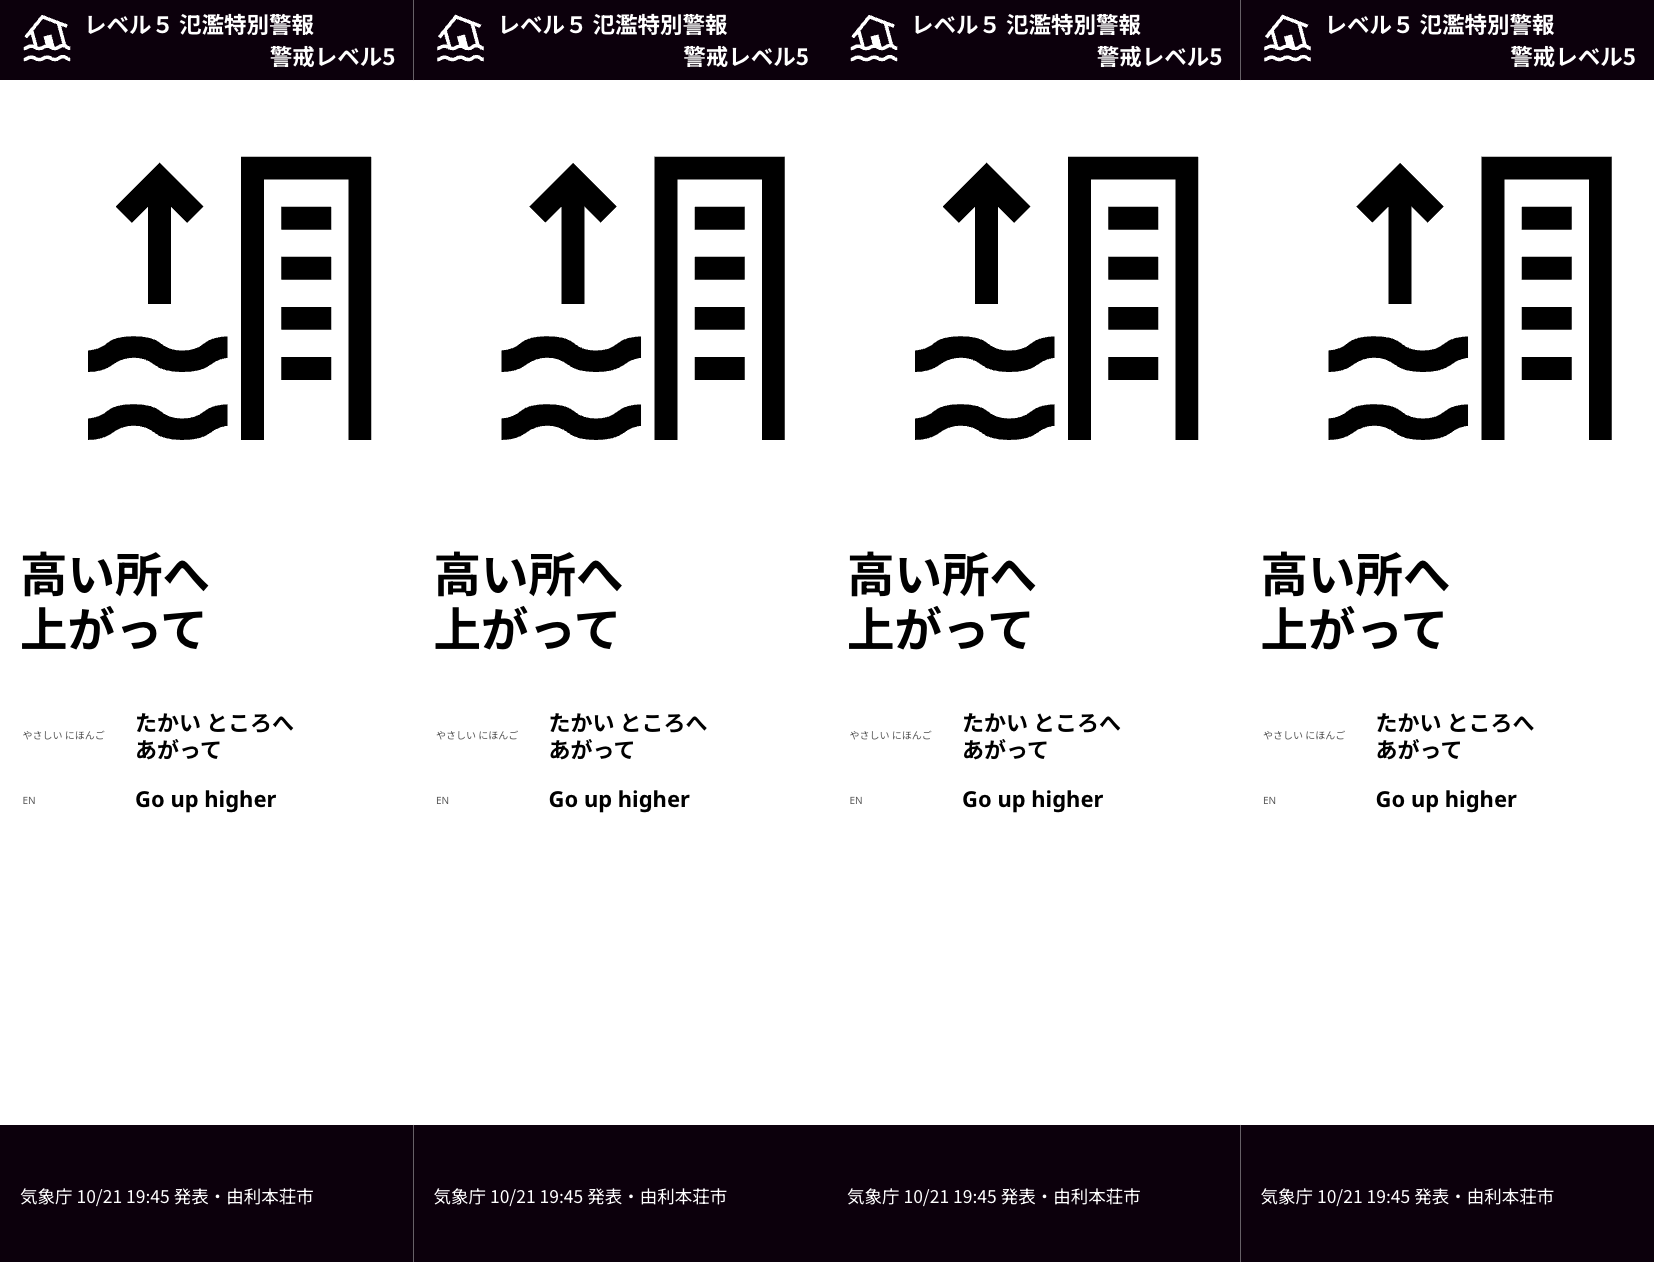
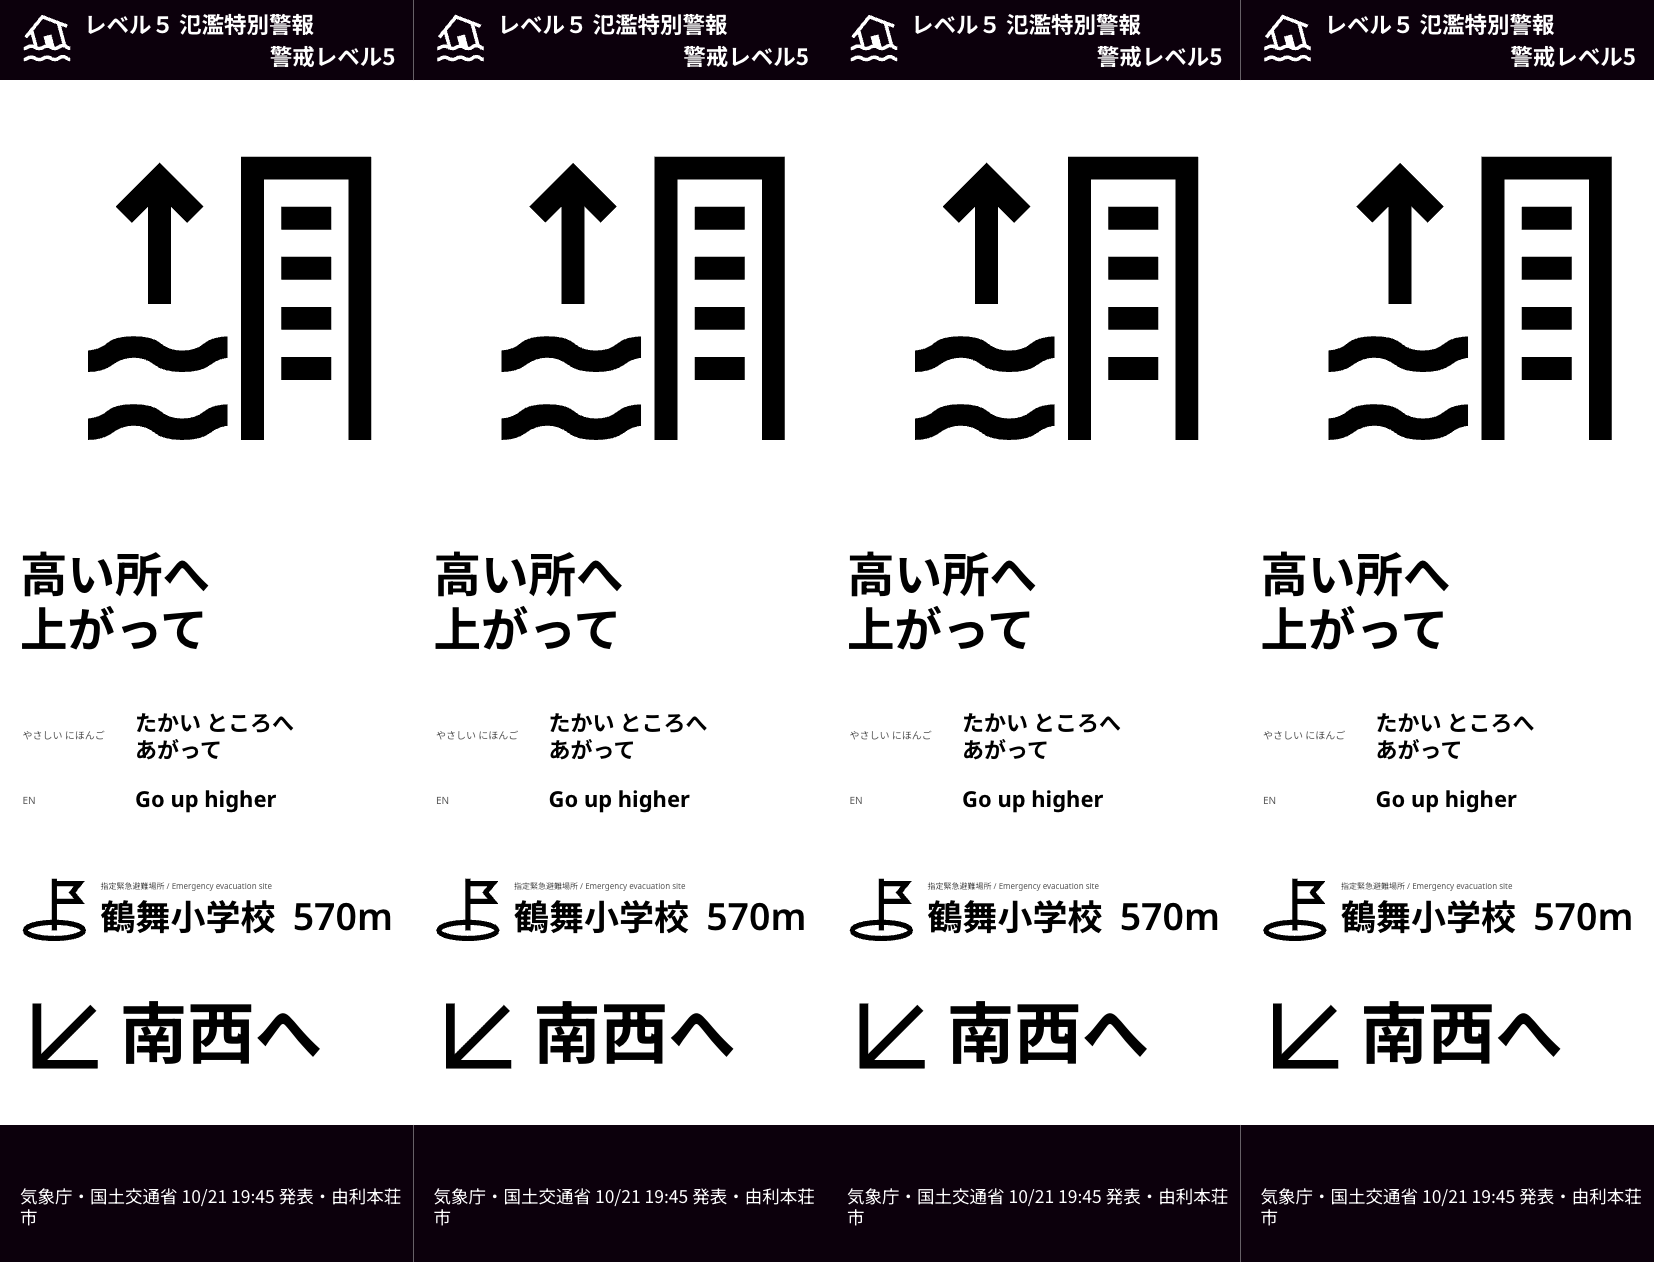
docs(screens): Lv5 screens with the shelter and direction after the bulletin regeneration
From main 538f4b5 (agents regenerated the three Lv5 bulletins with a shelter and direction; L-5
changed the 1:1 and secure-now slots), pnpm -F app screens at t = 14480 ms: lv5 16x9, 32x9, 9x16,
1x1 and pillar now show 鶴舞小学校 570 m and 南西へ, and their source line names 気象庁・国土交通省.
lv4-16x9 changed by a few pixels; the other 21 images came out byte-identical.

diff --git a/docs/screens.md b/docs/screens.md
@@ -17,7 +17,7 @@ Regenerate with `pnpm -F app screens` (production build, loopback admin preview)
 
 ![レベル５氾濫特別警報 (16x9)](screens/lv5-16x9.png)
 
-2026-10-21 19:45 JST · レベル５氾濫特別警報 · 警戒レベル5 — source line: 気象庁 10/21 19:45 発表・由利本荘市
+2026-10-21 19:45 JST · レベル５氾濫特別警報 · 警戒レベル5 — source line: 気象庁・国土交通省 10/21 19:45 発表・由利本荘市
 
 ![レベル２氾濫注意報解除 (16x9)](screens/clear-16x9.png)
 
@@ -35,7 +35,7 @@ Regenerate with `pnpm -F app screens` (production build, loopback admin preview)
 
 ![レベル５氾濫特別警報 (9x16)](screens/lv5-9x16.png)
 
-2026-10-21 19:45 JST · レベル５氾濫特別警報 · 警戒レベル5 — source line: 気象庁 10/21 19:45 発表・由利本荘市
+2026-10-21 19:45 JST · レベル５氾濫特別警報 · 警戒レベル5 — source line: 気象庁・国土交通省 10/21 19:45 発表・由利本荘市
 
 ![レベル２氾濫注意報解除 (9x16)](screens/clear-9x16.png)
 
@@ -53,7 +53,7 @@ Regenerate with `pnpm -F app screens` (production build, loopback admin preview)
 
 ![レベル５氾濫特別警報 (32x9)](screens/lv5-32x9.png)
 
-2026-10-21 19:45 JST · レベル５氾濫特別警報 · 警戒レベル5 — source line: 気象庁 10/21 19:45 発表・由利本荘市
+2026-10-21 19:45 JST · レベル５氾濫特別警報 · 警戒レベル5 — source line: 気象庁・国土交通省 10/21 19:45 発表・由利本荘市
 
 ![レベル２氾濫注意報解除 (32x9)](screens/clear-32x9.png)
 
@@ -71,7 +71,7 @@ Regenerate with `pnpm -F app screens` (production build, loopback admin preview)
 
 ![レベル５氾濫特別警報 (1x1)](screens/lv5-1x1.png)
 
-2026-10-21 19:45 JST · レベル５氾濫特別警報 · 警戒レベル5 — source line: 気象庁 10/21 19:45 発表・由利本荘市
+2026-10-21 19:45 JST · レベル５氾濫特別警報 · 警戒レベル5 — source line: 気象庁・国土交通省 10/21 19:45 発表・由利本荘市
 
 ![レベル２氾濫注意報解除 (1x1)](screens/clear-1x1.png)
 
@@ -89,7 +89,7 @@ Regenerate with `pnpm -F app screens` (production build, loopback admin preview)
 
 ![レベル５氾濫特別警報 (pillar)](screens/lv5-pillar.png)
 
-2026-10-21 19:45 JST · レベル５氾濫特別警報 · 警戒レベル5 — source line: 気象庁 10/21 19:45 発表・由利本荘市
+2026-10-21 19:45 JST · レベル５氾濫特別警報 · 警戒レベル5 — source line: 気象庁・国土交通省 10/21 19:45 発表・由利本荘市
 
 ![レベル２氾濫注意報解除 (pillar)](screens/clear-pillar.png)
 
